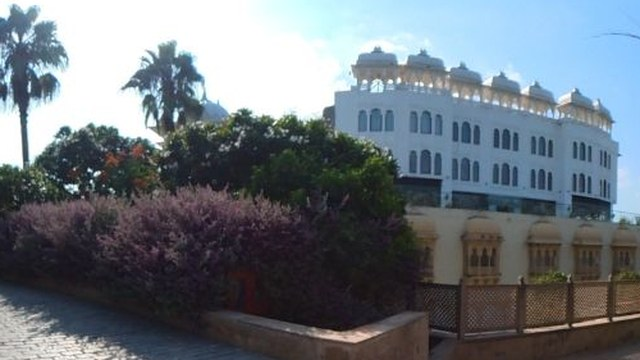
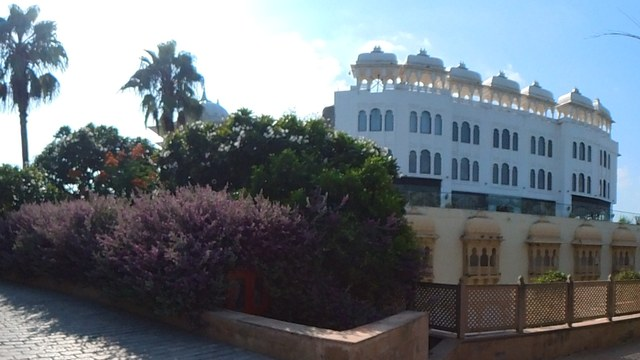
Use full-resolution camera originals, served as WebP
The five scenes now come from the original 6080x3040 camera exports
(previously 2000x1000 copies). The viewer loads a quality-95 WebP of
each (~3x smaller, visually identical) and falls back to the untouched
camera JPEG. Only the current scene and its neighbours stay in GPU
memory, since each full-resolution panorama takes ~100 MB.

Claude-Session: https://claude.ai/code/session_013Qi8opYaewJapiiCXmoEyv

diff --git a/js/tour.js b/js/tour.js
@@ -40,14 +40,29 @@ try {
 const cache = new Map(); // id -> Promise<texture>
 function ensure(id, { onProgress } = {}) {
   if (!cache.has(id)) {
-    const p = viewer.loadTexture(`assets/pano/${id}.jpg`, onProgress);
+    // WebP (q95, visually identical, ~3x lighter); original camera JPEG as fallback
+    const p = viewer
+      .loadTexture(`assets/pano/${id}.webp`, onProgress)
+      .catch(() => viewer.loadTexture(`assets/pano/${id}.jpg`, onProgress));
     p.catch(() => cache.delete(id)); // allow a retry after a failed load
     cache.set(id, p);
   }
   return cache.get(id);
 }
 const neighbours = (id) => byId[id].hotspots.filter((h) => h.type === "scene").map((h) => h.to);
-const preloadAround = (id) => neighbours(id).forEach((n) => ensure(n).catch(() => {}));
+// Full-resolution panoramas take ~100 MB of GPU memory each, so only the
+// current scene and the ones you can walk to next stay loaded.
+function preloadAround(id) {
+  const keep = new Set([id, ...neighbours(id)]);
+  for (const [other, p] of cache) {
+    if (keep.has(other)) continue;
+    cache.delete(other);
+    p.then((tex) => {
+      if (tex !== viewer.texA && tex !== viewer.texB) viewer.deleteTexture(tex);
+    }, () => {});
+  }
+  neighbours(id).forEach((n) => ensure(n).catch(() => {}));
+}
 
 // ------------------------------------------------------------ state
 let current = null;

diff --git a/index.html b/index.html
@@ -12,7 +12,7 @@
   <link rel="preconnect" href="https://fonts.googleapis.com" />
   <link rel="preconnect" href="https://fonts.gstatic.com" crossorigin />
   <link href="https://fonts.googleapis.com/css2?family=Cormorant+Garamond:ital,wght@0,400;0,500;0,600;1,400&family=Manrope:wght@300;400;500;600&display=swap" rel="stylesheet" />
-  <link rel="preload" as="fetch" href="assets/pano/arrival.jpg" crossorigin />
+  <link rel="preload" as="fetch" href="assets/pano/arrival.webp" crossorigin />
   <link rel="icon" href="assets/favicon.svg" type="image/svg+xml" />
   <link rel="stylesheet" href="css/style.css" />
 </head>

diff --git a/tools/prepare.py b/tools/prepare.py
@@ -1,10 +1,13 @@
-"""Make the scene-card thumbnails from the original panoramas.
+"""Build the web assets from the original camera panoramas.
 
-Usage: python3 tools/thumbs.py   (run from the repository root; needs Pillow)
+Usage: python3 tools/prepare.py   (run from the repository root; needs Pillow)
 
-The panoramas themselves are served untouched: assets/pano/<name>.jpg is a
-byte-for-byte copy of source/panoramas/<name>.jpg. This script only writes
-assets/pano/<name>-thumb.jpg, a plain crop of the opening view.
+For each source/panoramas/<name>.jpg (the untouched camera export) this writes
+into assets/pano/:
+  <name>.webp       WebP at quality 95: ~3x smaller than the camera JPEG and
+                    visually identical (PSNR ~44-45 dB). The viewer loads this.
+  <name>.jpg        byte-for-byte copy of the original, used as a fallback.
+  <name>-thumb.jpg  small crop of the opening view for the scene cards.
 """
 import shutil
 from pathlib import Path
@@ -37,6 +40,8 @@ if __name__ == "__main__":
     OUT.mkdir(parents=True, exist_ok=True)
     for name, yaw in YAW.items():
         src = SRC / f"{name}.jpg"
+        img = Image.open(src).convert("RGB")
         shutil.copyfile(src, OUT / f"{name}.jpg")
-        thumb(Image.open(src).convert("RGB"), yaw).save(OUT / f"{name}-thumb.jpg", quality=88)
+        img.save(OUT / f"{name}.webp", "WEBP", quality=95, method=6)
+        thumb(img, yaw).save(OUT / f"{name}-thumb.jpg", quality=88)
         print(f"  {name}")

diff --git a/README.md b/README.md
@@ -17,10 +17,14 @@ An immersive, dependency-free 360° tour of Radisson Blu Udaipur Palace Resort &
 
 ## Photos
 
-The panoramas are the original camera files, unedited. `assets/pano/<name>.jpg` is a byte-for-byte copy of `source/panoramas/<name>.jpg`. `tools/thumbs.py` copies them across and makes the small scene-card thumbnails:
+`source/panoramas/` holds the original 6080×3040 camera exports, unedited. `tools/prepare.py` builds the web assets in `assets/pano/`:
+
+- **`<name>.webp`:** WebP at quality 95, about 3× smaller than the camera JPEG and visually identical (PSNR ~44–45 dB). The viewer loads this file.
+- **`<name>.jpg`:** a byte-for-byte copy of the original, used as a fallback.
+- **`<name>-thumb.jpg`:** a scene-card thumbnail.
 
 ```bash
-python3 tools/thumbs.py   # needs Pillow
+python3 tools/prepare.py   # needs Pillow
 ```
 
 ## Run locally
@@ -45,7 +49,7 @@ css/style.css       design system
 js/viewer.js        WebGL2 panorama engine (projection, transitions, gyro, input)
 js/tour.js          tour controller (hotspots, dock, map, guided mode)
 js/tour-data.js     scenes, hotspots and copy
-tools/thumbs.py     thumbnail generator
+tools/prepare.py    builds WebP + thumbnails from the originals
 source/panoramas/   original captures
 assets/pano/        panoramas served to the viewer (unedited) + thumbnails
 ```
